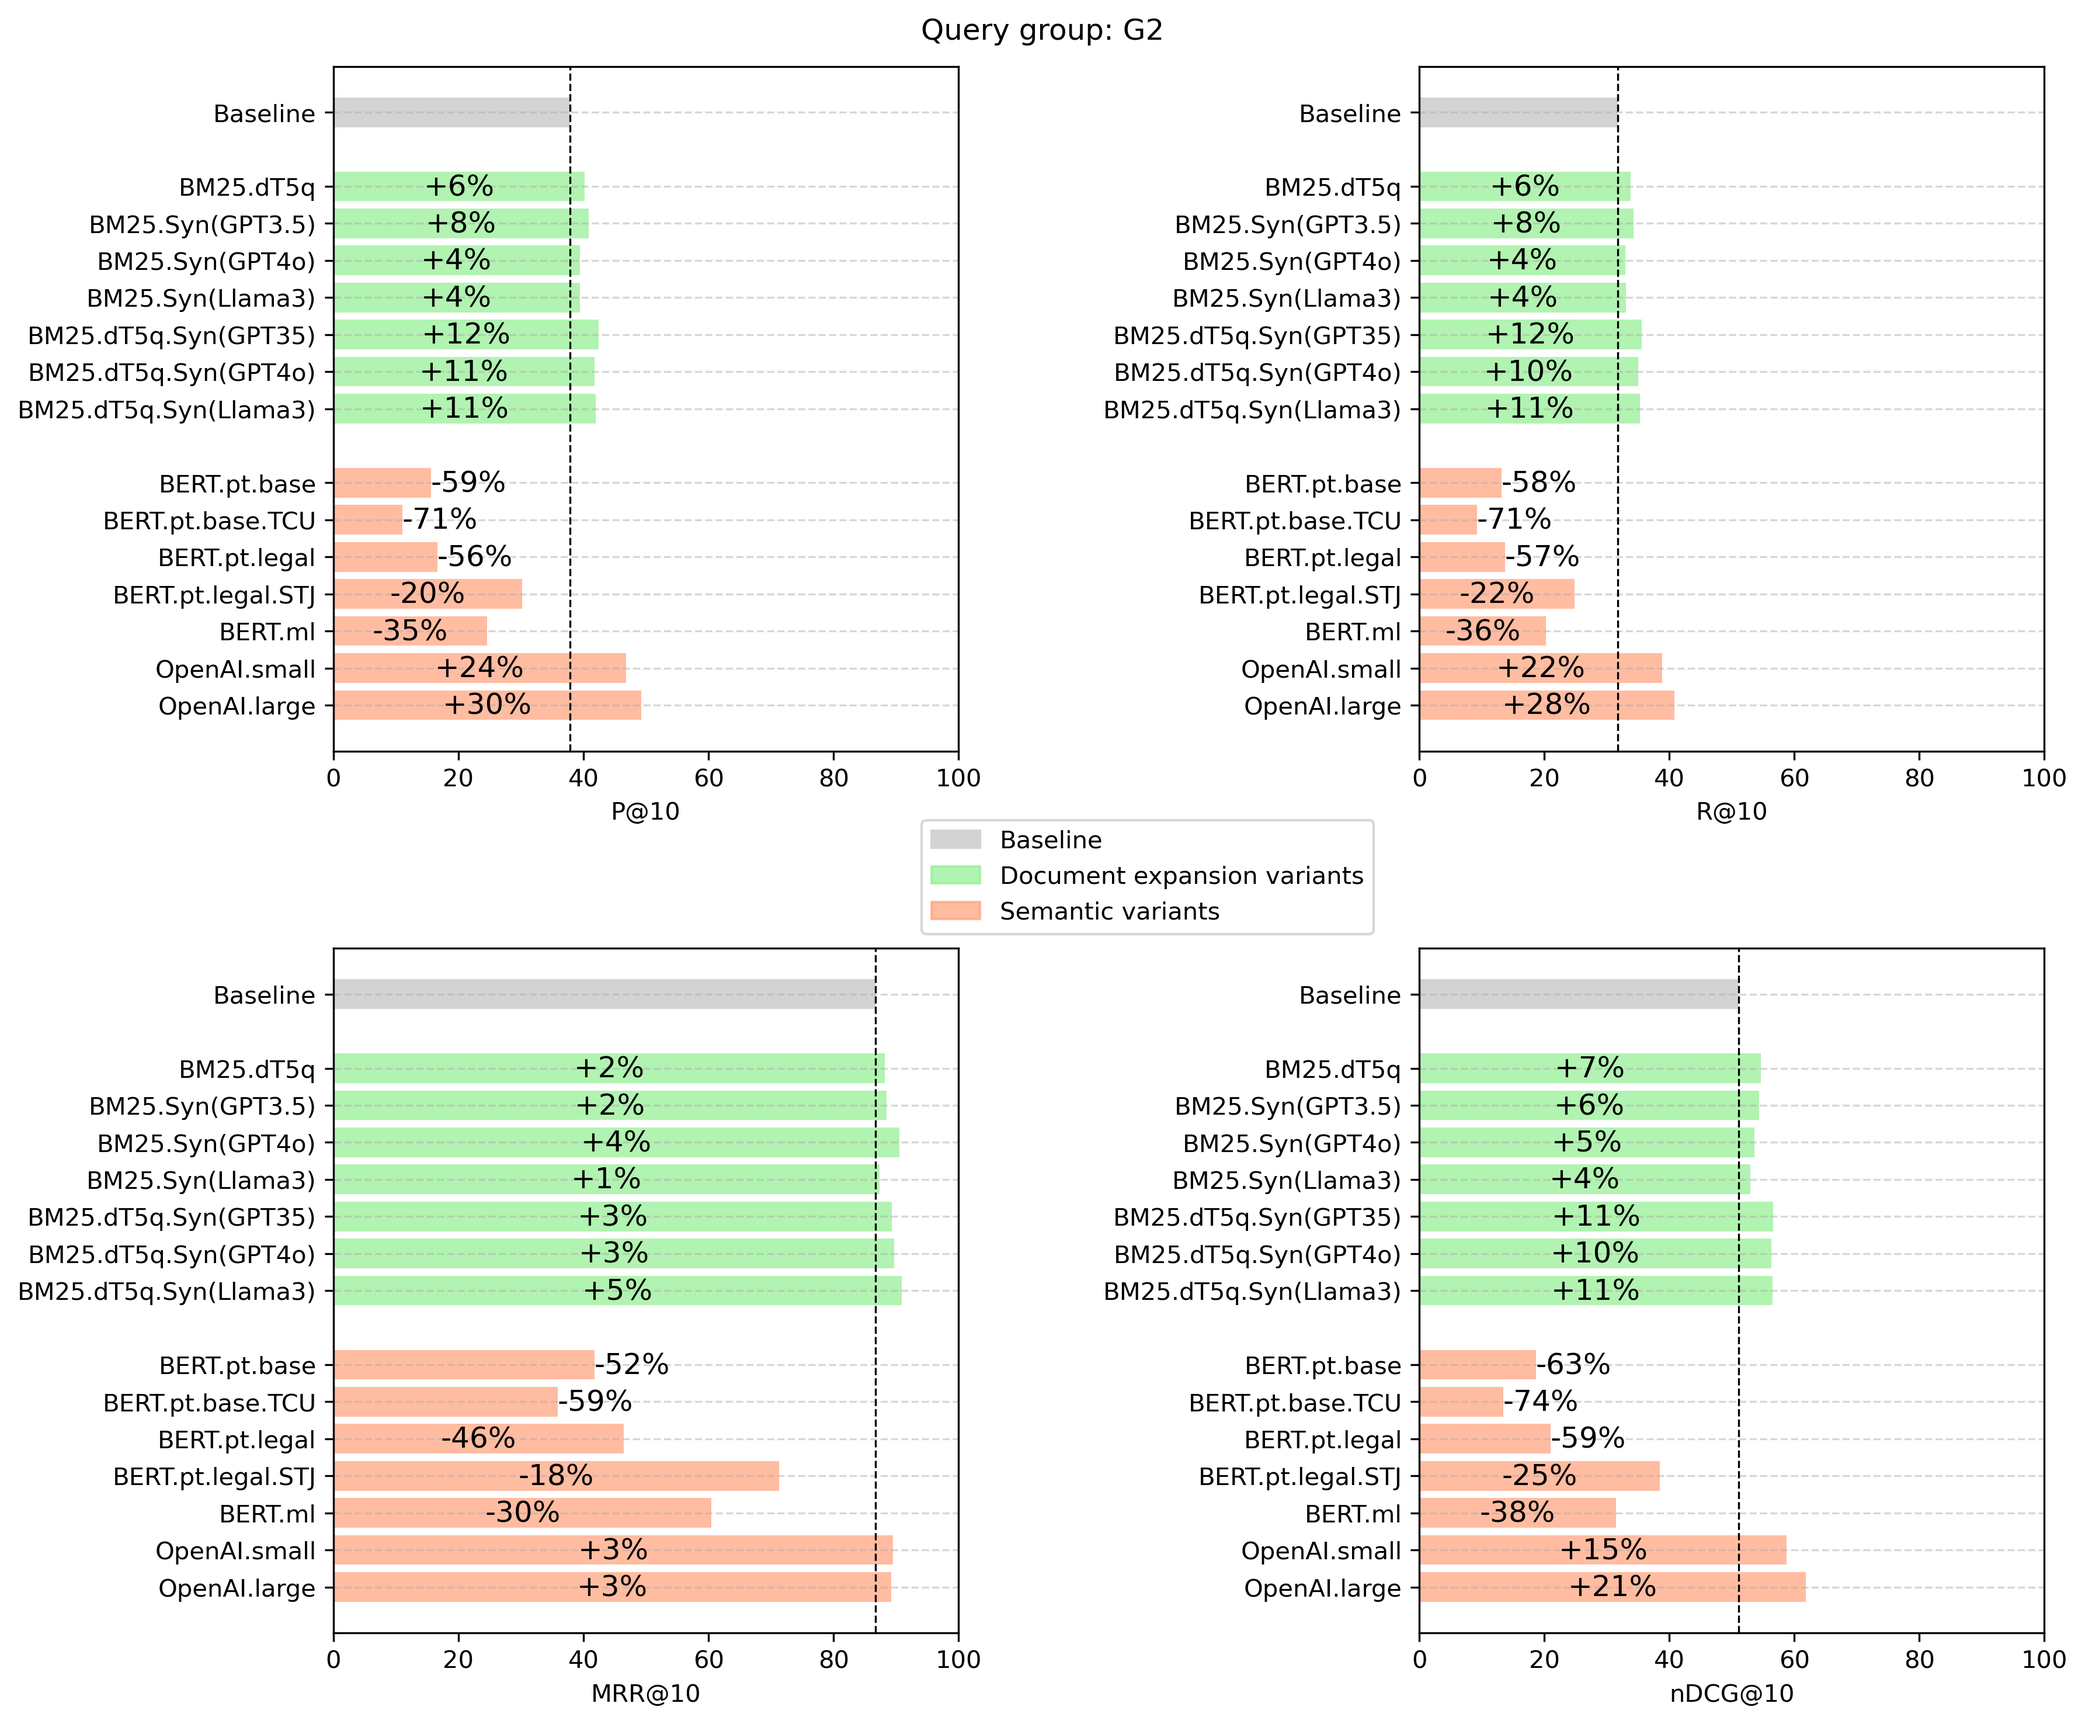
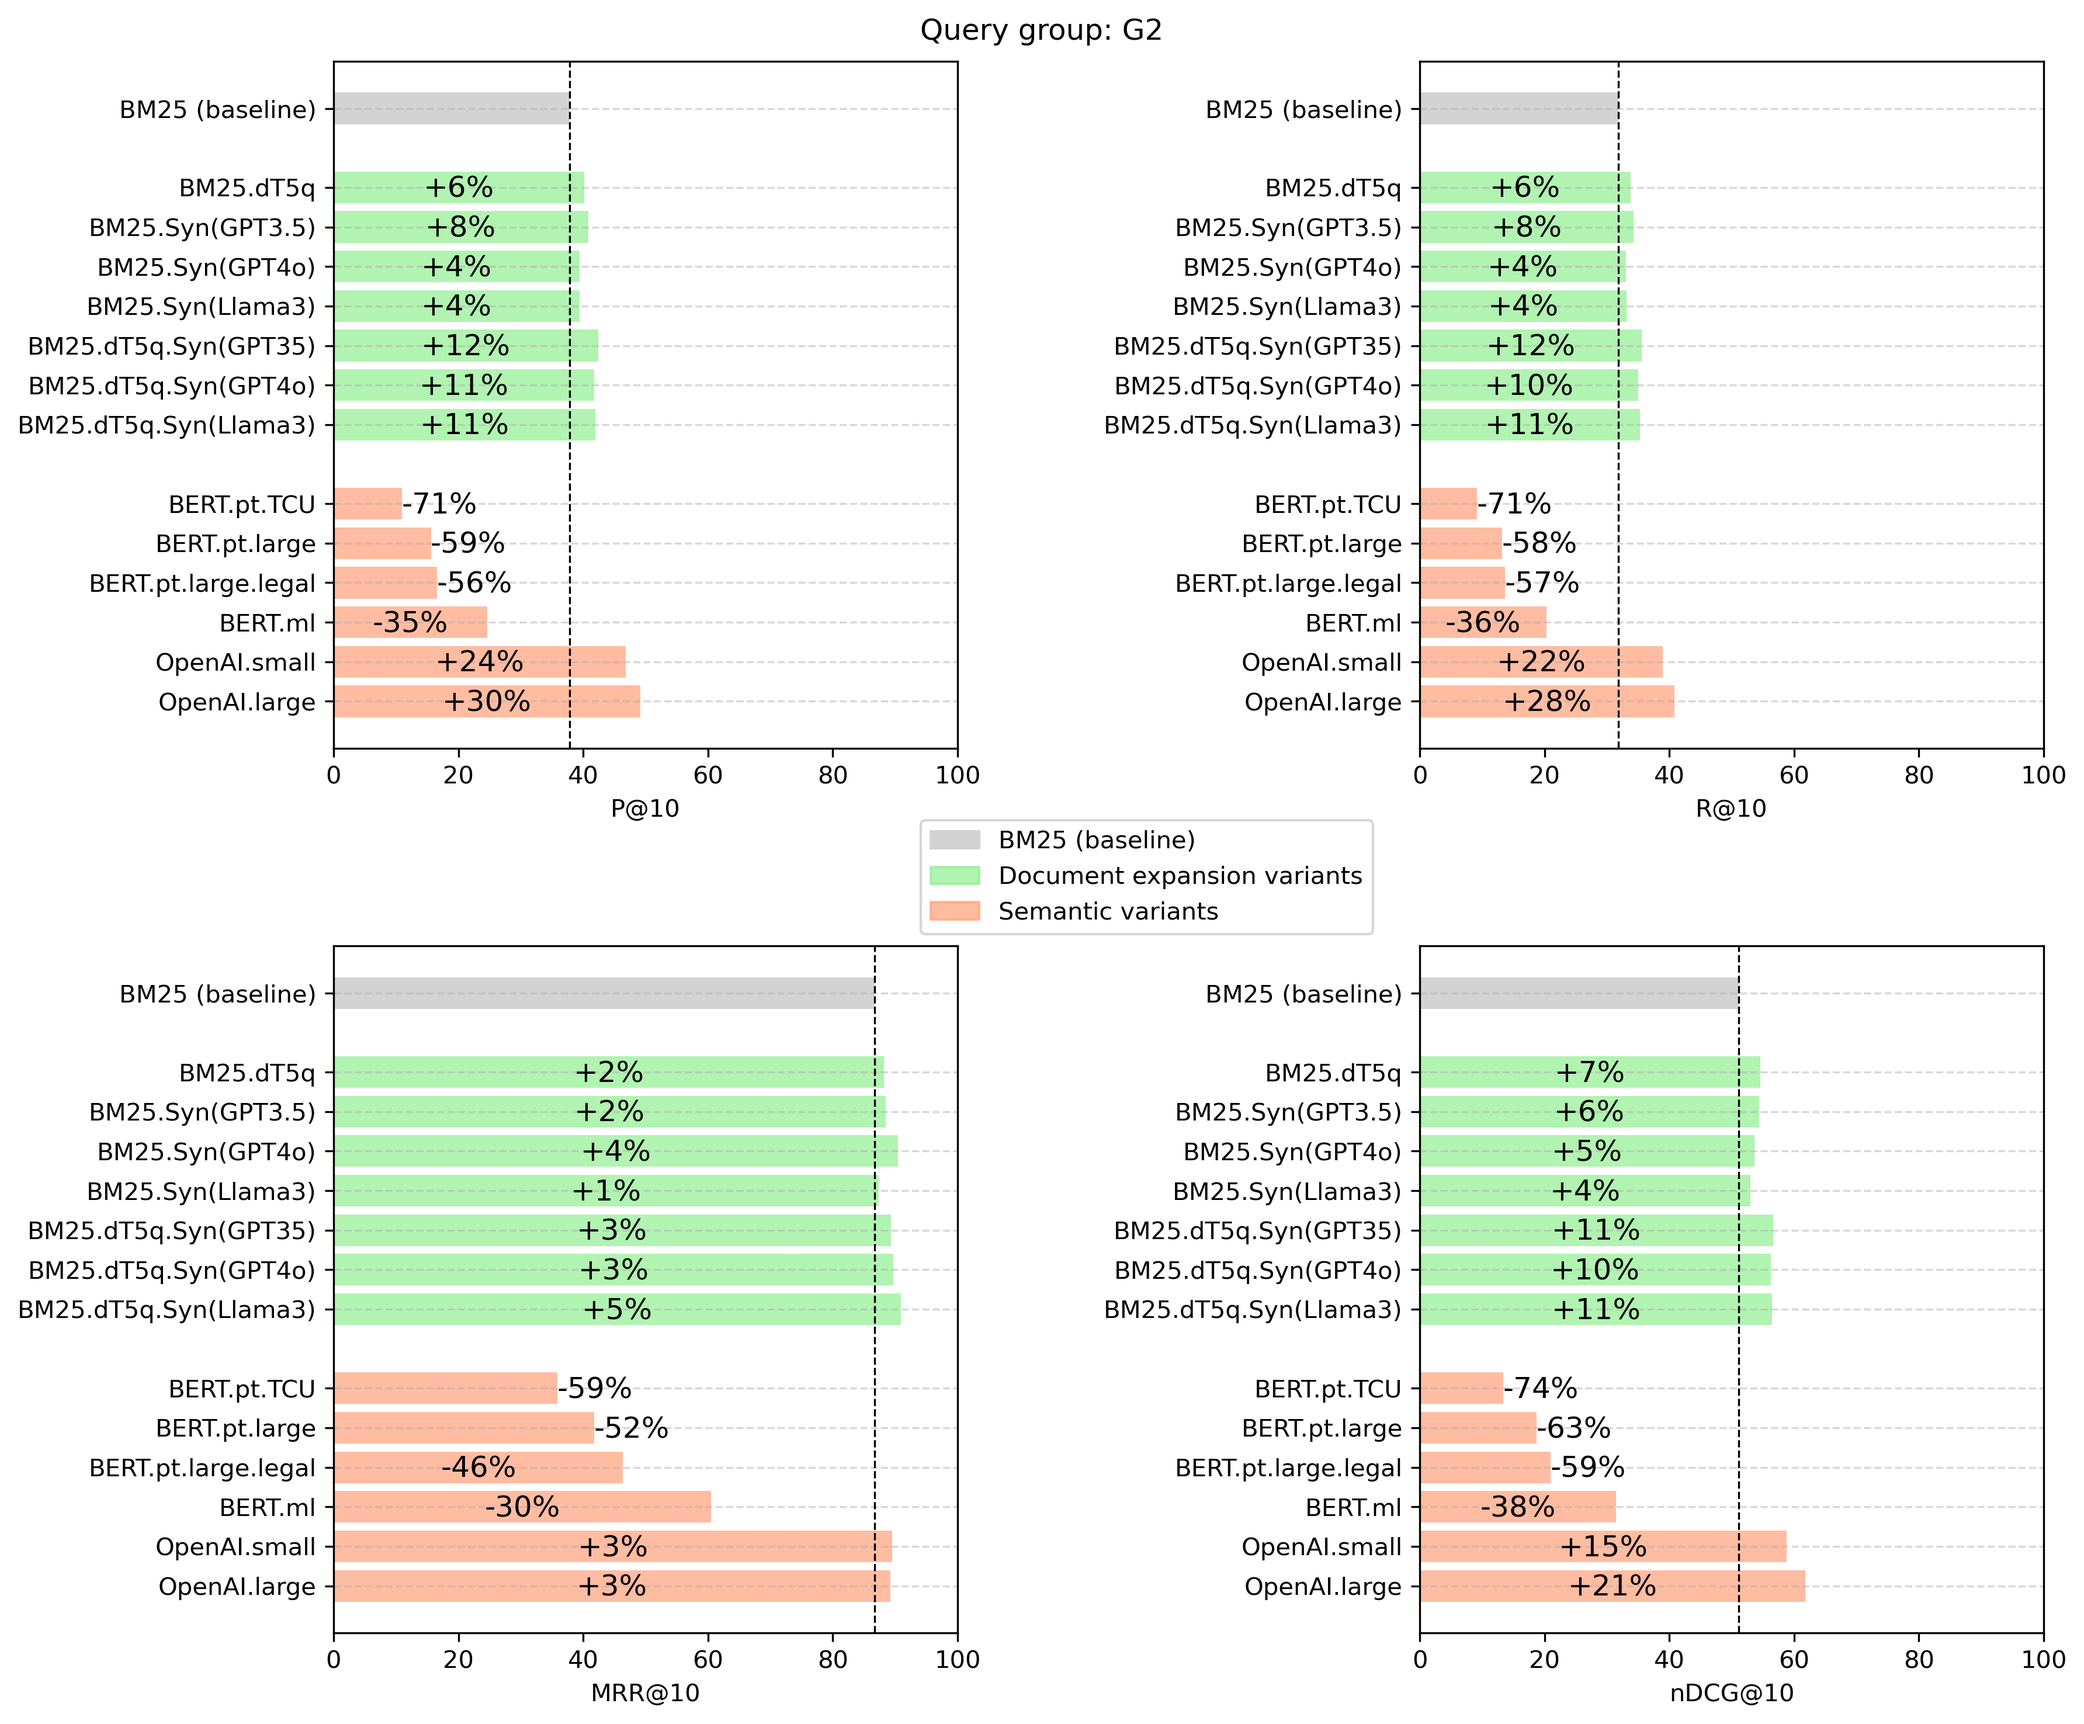
Altera legenda figuras

diff --git a/codigo/related/juristcu-metricas-barravertical.py b/codigo/related/juristcu-metricas-barravertical.py
@@ -9,14 +9,15 @@ import pandas as pd
 ordem_expansao_doc = ["BM25.dT5q",
                       "BM25.Syn(GPT3.5)", "BM25.Syn(GPT4o)", "BM25.Syn(Llama3)",
                       "BM25.dT5q.Syn(GPT35)", "BM25.dT5q.Syn(GPT4o)", "BM25.dT5q.Syn(Llama3)"]
-ordem_semantico = ["BERT.pt.base", "BERT.pt.base.TCU",
-                   "BERT.pt.legal", "BERT.pt.legal.STJ",
+ordem_semantico = ["BERT.pt.TCU",
+                   "BERT.pt.large",
+                   "BERT.pt.large.legal",# "BERT.pt.large.legal.kd",
                    "BERT.ml",
                    "OpenAI.small", "OpenAI.large"]
 
 # Define as métricas para os grupos G1, G2 e G3
 metricas_g1 = {
-    "Baseline"                 : [23.8, 19.7, 53.9, 27.5],
+    "BM25"                 : [23.8, 19.7, 53.9, 27.5],
     "expansao_doc": {
         "BM25.dT5q"            : [33.6, 27.4, 65.4, 38.5],
         "BM25.Syn(GPT3.5)"     : [26.8, 22.1, 55.1, 30.1],
@@ -27,10 +28,10 @@ metricas_g1 = {
         "BM25.dT5q.Syn(Llama3)": [35.2, 28.7, 69.1, 40.2]
         },
     "semantico": {
-        "BERT.pt.base"         : [7.4 , 6.3 , 19.9, 8.3 ],
-        "BERT.pt.base.TCU"     : [4.4 , 3.5 , 17.4, 5.6 ],
-        "BERT.pt.legal"        : [10.8, 8.8 , 28.8, 12.1],
-        "BERT.pt.legal.STJ"    : [20.2, 16.3, 42.4, 22.6],
+        "BERT.pt.TCU"           : [4.4 , 3.5 , 17.4, 5.6 ],
+        "BERT.pt.large"         : [7.4 , 6.3 , 19.9, 8.3 ],
+        "BERT.pt.large.legal"   : [10.8, 8.8 , 28.8, 12.1],
+#        "BERT.pt.large.legal.kd"    : [20.2, 16.3, 42.4, 22.6],
         "BERT.ml"              : [14.6, 11.6, 35.1, 16.1],
         "OpenAI.small"         : [37.8, 30.7, 74.9, 44.5],
         "OpenAI.large"         : [40.8, 33.2, 75.4, 47.3]
@@ -38,7 +39,7 @@ metricas_g1 = {
 }
 
 metricas_g2 = {
-    "Baseline"                 : [37.8, 31.8, 86.7, 51.1],
+    "BM25"                 : [37.8, 31.8, 86.7, 51.1],
     "expansao_doc": {
         "BM25.dT5q"            : [40.2, 33.8, 88.2, 54.6],
         "BM25.Syn(GPT3.5)"     : [40.8, 34.3, 88.5, 54.4],
@@ -49,10 +50,10 @@ metricas_g2 = {
         "BM25.dT5q.Syn(Llama3)": [42.0, 35.3, 90.9, 56.5]
         },
     "semantico": {
-        "BERT.pt.base"         : [15.6, 13.2, 41.8, 18.7],
-        "BERT.pt.base.TCU"     : [11.0, 9.2 , 35.9, 13.4],
-        "BERT.pt.legal"        : [16.6, 13.7, 46.4, 21.0],
-        "BERT.pt.legal.STJ"    : [30.2, 24.8, 71.3, 38.5],
+        "BERT.pt.TCU"           : [11.0, 9.2 , 35.9, 13.4],
+        "BERT.pt.large"         : [15.6, 13.2, 41.8, 18.7],
+        "BERT.pt.large.legal"   : [16.6, 13.7, 46.4, 21.0],
+#        "BERT.pt.large.legal.kd"    : [30.2, 24.8, 71.3, 38.5],
         "BERT.ml"              : [24.6, 20.3, 60.5, 31.5],
         "OpenAI.small"         : [46.8, 38.9, 89.5, 58.8],
         "OpenAI.large"         : [49.2, 40.8, 89.2, 61.8]
@@ -60,7 +61,7 @@ metricas_g2 = {
 }
 
 metricas_g3 = {
-    "Baseline"                 : [38.8, 34.5, 91.8, 53.3],
+    "BM25"                 : [38.8, 34.5, 91.8, 53.3],
     "expansao_doc": {
         "BM25.dT5q"            : [40.8, 36.2, 93.9, 55.6],
         "BM25.Syn(GPT3.5)"     : [40.6, 36.1, 91.5, 54.6],
@@ -71,10 +72,10 @@ metricas_g3 = {
         "BM25.dT5q.Syn(Llama3)": [42.0, 37.2, 92.9, 56.4]
         },
     "semantico": {
-        "BERT.pt.base"         : [22.2, 19.6, 60.7, 28.9],
-        "BERT.pt.base.TCU"     : [20.2, 18.0, 60.8, 28.8],
-        "BERT.pt.legal"        : [18.2, 16.1, 49.2, 23.4],
-        "BERT.pt.legal.STJ"    : [34.8, 30.7, 86.8, 46.0],
+        "BERT.pt.TCU"          : [20.2, 18.0, 60.8, 28.8],
+        "BERT.pt.large"        : [22.2, 19.6, 60.7, 28.9],
+        "BERT.pt.large.legal"  : [18.2, 16.1, 49.2, 23.4],
+#        "BERT.pt.large.legal.kd"    : [34.8, 30.7, 86.8, 46.0],
         "BERT.ml"              : [34.4, 30.5, 79.2, 45.2],
         "OpenAI.small"         : [48.2, 42.5, 91.7, 60.9],
         "OpenAI.large"         : [47.2, 41.5, 91.5, 60.8]
@@ -118,7 +119,7 @@ def plot_metricas(grupo, calcular_percentual=True, salvar_figura=False, baseline
         # expansao_doc e semantico são mapas. Precisamos extrair os vetores
         # do mapa na ordem em que devem ser visualizados
         # idx_metrica é de 0 a 3 e representa P, R, MRR e nDCG
-        baseline_value = metricas["Baseline"][idx_metrica]
+        baseline_value = metricas["BM25"][idx_metrica]
         expansao_doc_values = [metricas["expansao_doc"][metodo][idx_metrica] for metodo in ordem_expansao_doc]
         semantico_values = [metricas["semantico"][metodo][idx_metrica] for metodo in ordem_semantico]
         
@@ -138,7 +139,7 @@ def plot_metricas(grupo, calcular_percentual=True, salvar_figura=False, baseline
     
         # Barras
         if not calcular_percentual: # Se não for percentual, aí tem que adicionar o baseline
-            ax.barh(y=y_baseline, width=[baseline_value], color=colors["baseline"], label="baseline")
+            ax.barh(y=y_baseline, width=[baseline_value], color=colors["baseline"], label="Baseline")
         barras_exp_doc = ax.barh(y=y_expansao_doc, width=expansao_doc_values, color=colors["expansao_doc"], label="expansao_doc", alpha=alpha)
         barras_semantico = ax.barh(y=y_semantico, width=semantico_values, color=colors["semantico"], label="semantico", alpha=alpha)
 
@@ -171,7 +172,7 @@ def plot_metricas(grupo, calcular_percentual=True, salvar_figura=False, baseline
         else:
             # Eixo x
             ax.set_yticks(list(y_baseline) + list(y_expansao_doc) + list(y_semantico))
-            ax.set_yticklabels(["Baseline"] + ordem_expansao_doc + ordem_semantico)
+            ax.set_yticklabels(["BM25 (baseline)"] + ordem_expansao_doc + ordem_semantico)
             # Eixo y
             ax.set_xlabel(f"{label_metrica}")
             # Título
@@ -188,7 +189,7 @@ def plot_metricas(grupo, calcular_percentual=True, salvar_figura=False, baseline
                
 
     # Criando os elementos da legenda com as cores corretas
-    baseline_patch = mpatches.Patch(color=colors['baseline'], label="Baseline")
+    baseline_patch = mpatches.Patch(color=colors['baseline'], label="BM25 (baseline)")
     expansao_doc_patch = mpatches.Patch(color=colors['expansao_doc'], label="Document expansion variants", alpha=alpha)
     semantico_patch = mpatches.Patch(color=colors['semantico'], label="Semantic variants", alpha=alpha)
 
@@ -212,5 +213,5 @@ def plot_metricas(grupo, calcular_percentual=True, salvar_figura=False, baseline
 salvar_figura=True
 baseline_no_topo=True
 plot_metricas(grupo=1, calcular_percentual=False, salvar_figura=salvar_figura, baseline_no_topo=baseline_no_topo)
-plot_metricas(grupo=3, calcular_percentual=False, salvar_figura=salvar_figura, baseline_no_topo=baseline_no_topo)
 plot_metricas(grupo=2, calcular_percentual=False, salvar_figura=salvar_figura, baseline_no_topo=baseline_no_topo)
+plot_metricas(grupo=3, calcular_percentual=False, salvar_figura=salvar_figura, baseline_no_topo=baseline_no_topo)
